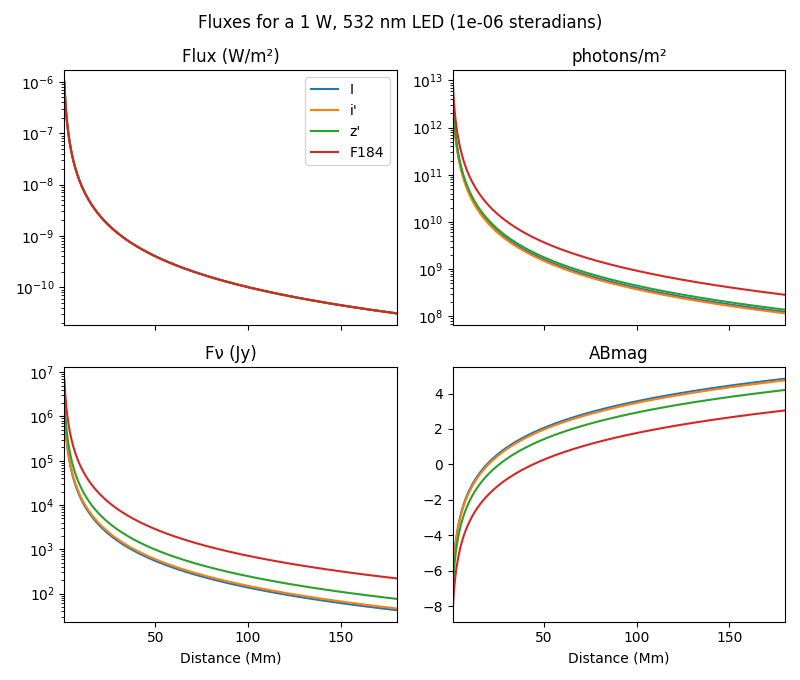
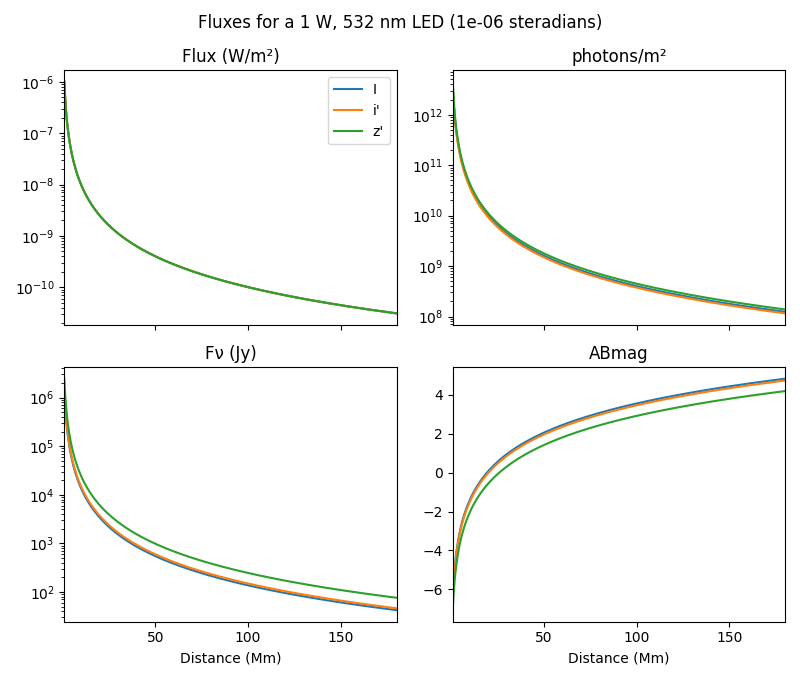
Fix 808 nm (removed F184)

diff --git a/mag_graphs5.py b/mag_graphs5.py
@@ -69,7 +69,7 @@ tensixtyfour = [["W146",1.4635e-6,0.5365e-6]] # None of the ground based bands I
 fourfortyfive = [["B",4361e-10,890e-10],["V",5448e-10,840e-10],["g'",4639e-10,1280e-10]]
 sixthirtyeight = [["V",5448e-10,840e-10],["R",6407e-10,1580e-10],["r'",6122e-10,1150e-10],["i'",7439e-10,1230e-10],["R062",0.620e-6,0.140e-6]]
 sixeighty = [["R",6407e-10,1580e-10],["I",7980e-10,1540e-10],["r'",6122e-10,1150e-10],["i'",7439e-10,1230e-10],["R062",0.620e-6,0.140e-6]]
-eightoheight = [["I",7980e-10,1540e-10],["i'",7439e-10,1230e-10],["z'",8896e-10,1070e-10],["F184",1.8415e-6,0.1585e-6]]
+eightoheight = [["I",7980e-10,1540e-10],["i'",7439e-10,1230e-10],["z'",8896e-10,1070e-10]]
 dispersion = [4*np.pi,np.pi,1e-6] #angle of dispersion in steradians
 
 for Teff in Teffs:
